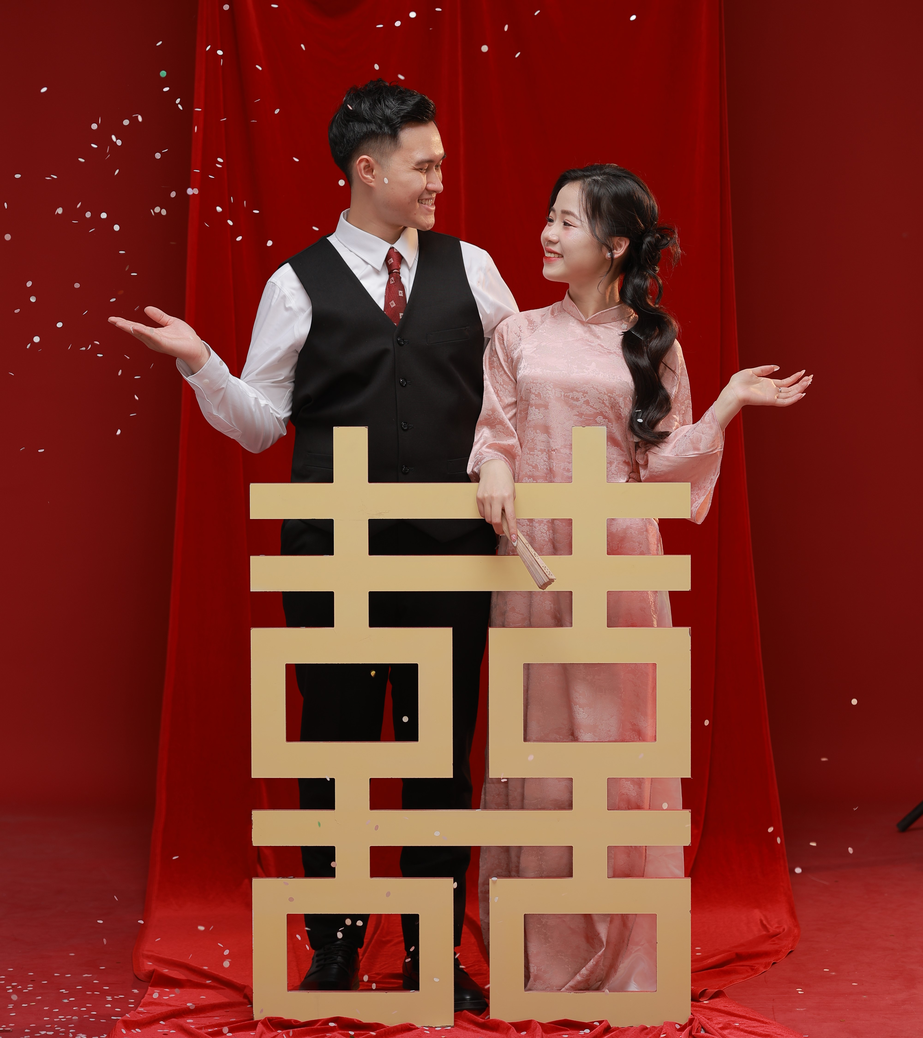
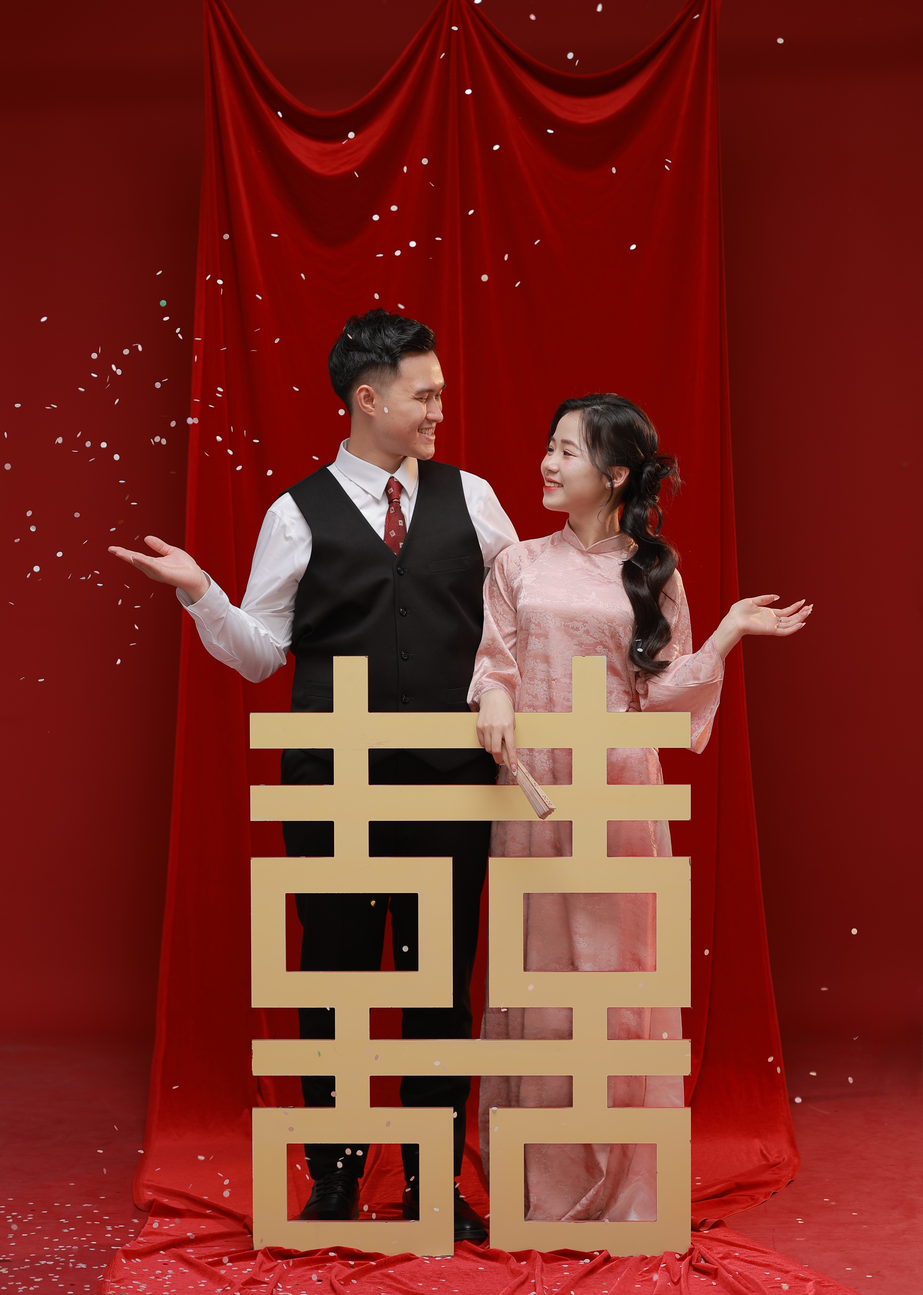
feat: add background image

diff --git a/src/pages/wedding/Wedding.tsx b/src/pages/wedding/Wedding.tsx
@@ -4,17 +4,19 @@ const Wedding = () => {
       <div className='wedding-page'>
         {/* Left */}
         <div className='left-card'>
-          <div className='flex items-center justify-center w-full h-[60px]'>Happy Wedding</div>
+          <div className='flex items-center justify-center w-full h-[100px]'>Happy Wedding</div>
 
-          <div className='w-[468px] h-[calc(100%-140px)]'>
+          <div className='relative w-[440px] h-[calc(100%-200px)]'>
             <img
-              className='object-cover w-full h-full'
+              className='object-cover w-full h-full rounded-md'
               src='./images/NTH_8926_edit.JPG'
               alt='Image 1'
             />
+
+            <p className='absolute text-xl font-bold top-20 right-20'>Lâm & Ninh</p>
           </div>
 
-          <div className='flex flex-col items-center justify-center h-[80px]'>
+          <div className='flex flex-col items-center justify-center h-[100px]'>
             <p>Trân trọng kính mời</p>
             <p>....................................</p>
           </div>

diff --git a/src/styles/pages.scss b/src/styles/pages.scss
@@ -205,14 +205,21 @@
 
 /*----- Wedding -----*/
 .wedding-page {
-  padding: 24px;
+  padding: 24px 80px;
   height: 100vh;
   width: 100vw;
 
   display: flex;
   align-items: center;
   justify-content: center;
-  gap: 32px;
+  gap: 579px;
+
+  border: 12px rgba(255, 228, 228, 0.75);
+  border-style: double;
+  background: url('./images/NTH_9536.JPG') no-repeat;
+  background-color: rgb(92, 9, 9);
+  background-size: 720px;
+  background-position: center;
 
   @media (max-width: 1000px) {
     height: 100%;
@@ -222,6 +229,7 @@
 
   .left-card,
   .right-card {
+    // visibility: hidden;
     height: 668px;
     width: 468px;
 
@@ -230,7 +238,12 @@
     justify-content: space-between;
     flex-direction: column;
 
-    box-shadow: rgba(0, 0, 0, 0.35) 0px 5px 15px;
+    background: rgba(255, 242, 242, 0.4);
+    border-radius: 6px;
+    box-shadow: 0 4px 30px rgba(255, 235, 235, 0.18);
+    backdrop-filter: blur(5px);
+    -webkit-backdrop-filter: blur(5px);
+    // border: 1px solid rgba(255, 255, 255, 0.3);
   }
 
   .right-card {
